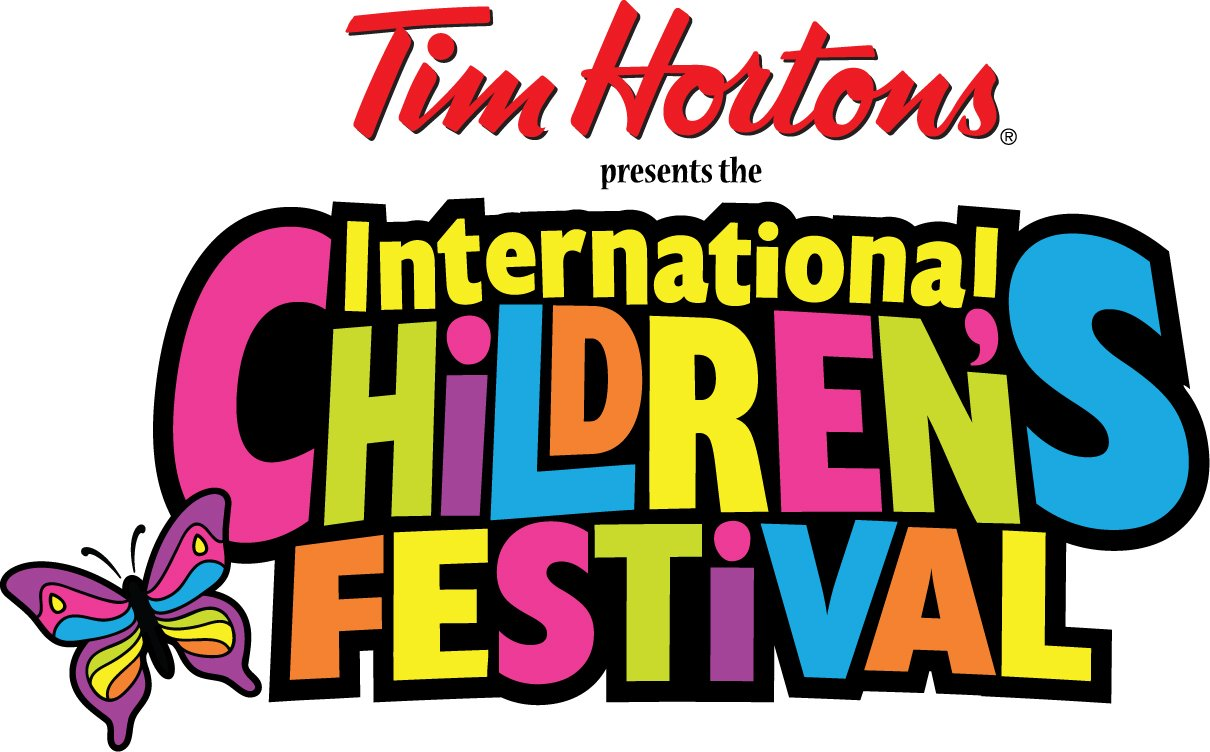
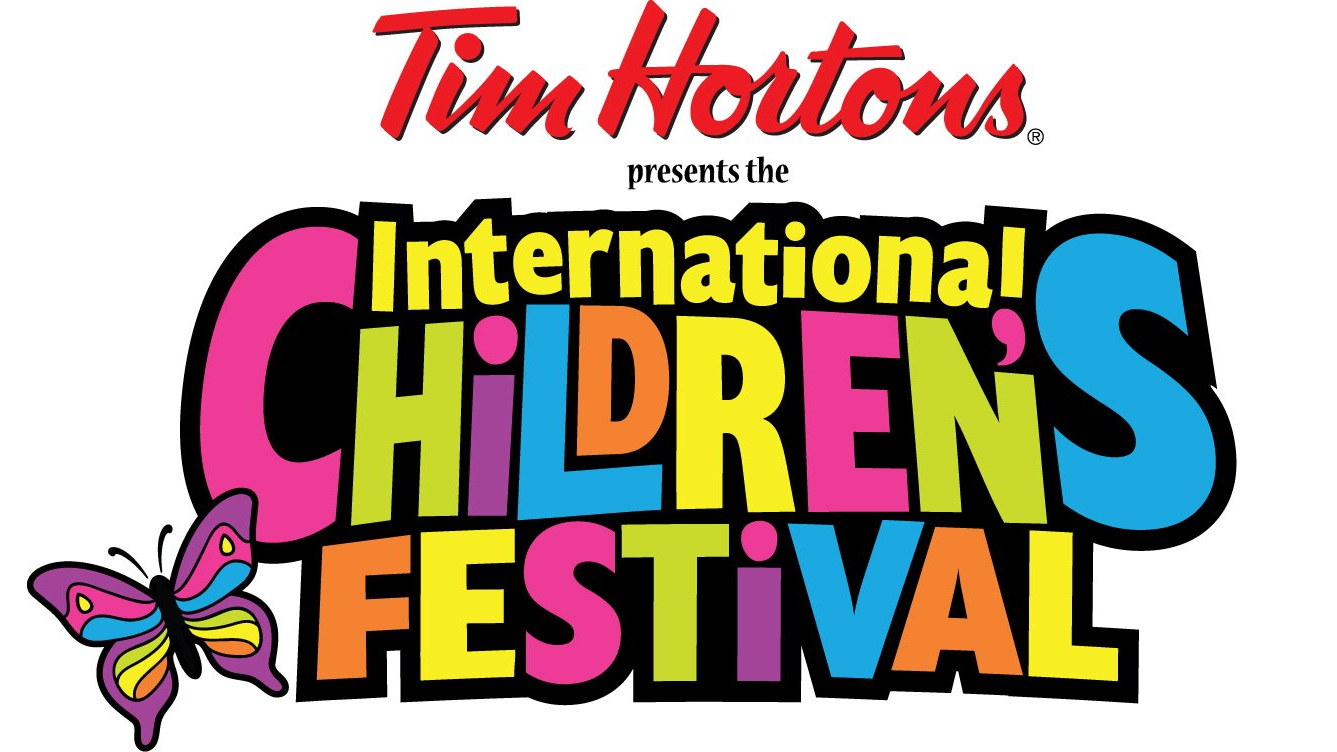
Web Optimized images --- I don't know if it will change anything but why not

diff --git a/pages/Projects/Solamanders.js b/pages/Projects/Solamanders.js
@@ -8,9 +8,9 @@ import {InfoChild, InfoParent} from "../../components/TextBox";
 import SCommon from "../../styles/Common.module.css";
 import SCarousel from "../../styles/Components/Carousel.module.css"; //TODO turn slides into proper component
 
-import BabyMander from "../../public/Projects/Solamanders/BabyMander.png";
-import Gen1Mander from "../../public/Projects/Solamanders/Gen1Mander.png";
-import TerrariumTank from "../../public/Projects/Solamanders/TTank.png";
+import BabyMander from "../../public/Projects/Solamanders/BabyMander.webp";
+import Gen1Mander from "../../public/Projects/Solamanders/Gen1Mander.webp";
+import TerrariumTank from "../../public/Projects/Solamanders/TTank.webp";
 
 export default function Solamanders() {
     return (
@@ -18,7 +18,6 @@ export default function Solamanders() {
             <Head>
                 <title>Solamanders</title>
                 <meta name="description" content="My first commission project"/>
-                <link rel="icon" href="/Assets/Site/logoTS.png"/>
             </Head>
 
             <Header goBackLink="/Projects"

diff --git a/pages/Projects/ZipZorpBeedleBorp.js b/pages/Projects/ZipZorpBeedleBorp.js
@@ -8,9 +8,9 @@ import {InfoChild, InfoParent} from "../../components/TextBox";
 import SCommon from "../../styles/Common.module.css";
 import SCarousel from "../../styles/Components/Carousel.module.css";
 
-import CSGO1 from "../../public/Projects/ZipZorp/CSGO1.png";
-import CSGO2 from "../../public/Projects/ZipZorp/CSGO2.png";
-import CSGO3 from "../../public/Projects/ZipZorp/CSGO3.png";
+import CSGO1 from "../../public/Projects/ZipZorp/CSGO1.webp";
+import CSGO2 from "../../public/Projects/ZipZorp/CSGO2.webp";
+import CSGO3 from "../../public/Projects/ZipZorp/CSGO3.webp";
 
 export default function ZipZorpBeedleBorp() {
     return (
@@ -18,7 +18,6 @@ export default function ZipZorpBeedleBorp() {
             <Head>
                 <title>ZipZorpBeedleBorp</title>
                 <meta name="description" content="My entry into low level computing and hacking"/>
-                <link rel="icon" href="/Assets/Site/logoTS.png"/>
             </Head>
 
             <Header goBackLink="/Projects"

diff --git a/pages/Projects/NineEngine.js b/pages/Projects/NineEngine.js
@@ -8,8 +8,8 @@ import {InfoChild, InfoParent} from "../../components/TextBox";
 import SCommon from "../../styles/Common.module.css";
 import SCarousel from "../../styles/Components/Carousel.module.css";
 
-import showcase1 from "../../public/Projects/NineEngine/engine2.png";
-import showcase2 from "../../public/Projects/NineEngine/engine4.png";
+import showcase1 from "../../public/Projects/NineEngine/engine2.webp";
+import showcase2 from "../../public/Projects/NineEngine/engine4.webp";
 
 export default function NineEngine() {
     return (
@@ -17,7 +17,6 @@ export default function NineEngine() {
             <Head>
                 <title>NineEngine</title>
                 <meta name="description" content="My custom game engine and renderer"/>
-                <link rel="icon" href="/Assets/Site/logoTS.png"/>
             </Head>
 
             <Header goBackLink="/Projects"

diff --git a/pages/Volunteer.js b/pages/Volunteer.js
@@ -5,10 +5,10 @@ import {SnakeBoxChild, SnakeBoxParent} from "../components/TextBox";
 
 import SCommon from "../styles/Common.module.css";
 
-import Pince from "../public/Volunteer/Pince.png";
-import OpenRGB from "../public/Volunteer/OpenRGB.png";
-import SlamBKB from "../public/Volunteer/Slam.png"
-import Fest from "../public/Volunteer/Fest.jpg"
+import Pince from "../public/Volunteer/PINCE.webp";
+import OpenRGB from "../public/Volunteer/OpenRGB.webp";
+import SlamBKB from "../public/Volunteer/SLAM.webp"
+import Fest from "../public/Volunteer/CFest.webp"
 
 export default function Volunteer() {
     return (

diff --git a/components/Carousel.js b/components/Carousel.js
@@ -5,8 +5,8 @@ import useEmblaCarousel from "embla-carousel-react";
 
 import SCarousel from "../styles/Components/Carousel.module.css";
 
-import buttonNext from "../public/Assets/SlideShow/slideShowNext.png";
-import buttonPrev from "../public/Assets/SlideShow/slideShowBack.png";
+import buttonNext from "../public/Assets/SlideShow/SlideNext.webp";
+import buttonPrev from "../public/Assets/SlideShow/SlideBack.webp";
 
 export function Slide({children}) {
     return (

diff --git a/pages/_document.js b/pages/_document.js
@@ -10,7 +10,7 @@ class MyDocument extends Document {
                     <link href="https://fonts.googleapis.com/css2?family=Roboto:wght@400&display=swap"
                           rel="stylesheet"/>
 
-                    <link rel="icon" href="/Assets/Site/logoTS.png"/>
+                    <link rel="icon" href="/Assets/Site/logoTS.webp"/>
                 </Head>
                 <body>
                 <Main/>

diff --git a/components/Header.js b/components/Header.js
@@ -4,7 +4,7 @@ import Link from "next/link";
 import styles from "../styles/Components/Header.module.css";
 import SHeader from "../styles/Components/Header.module.css";
 
-import backArrow from "../public/Assets/Header/ArrowBack4.png";
+import backArrow from "../public/Assets/Header/BackArrow.webp";
 
 export function Header(props) {
     let link = '/'

diff --git a/styles/Pages/Index.module.css b/styles/Pages/Index.module.css
@@ -7,12 +7,11 @@
     position: sticky;
     background-size: 1500px;
     background-repeat: repeat-x;
-    background-image: url("/Assets/Site/Triangles2.png");
+    background-image: url("/Assets/Site/Triangles.webp");
     display: flex;
     justify-content: center;
     align-items: center;
 }
-
 
 /*HEADER OVERLAY*/
 .headerOverlay {
